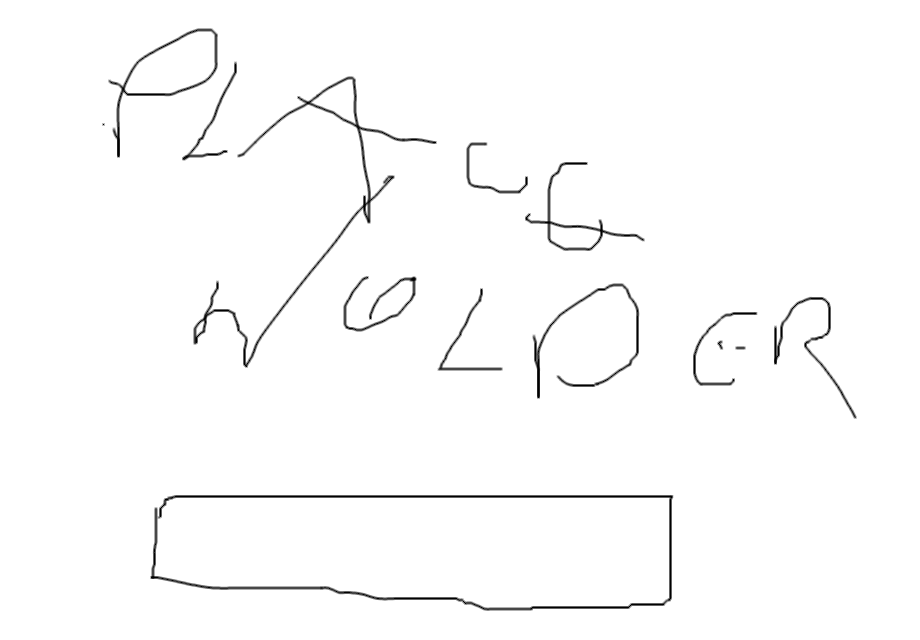
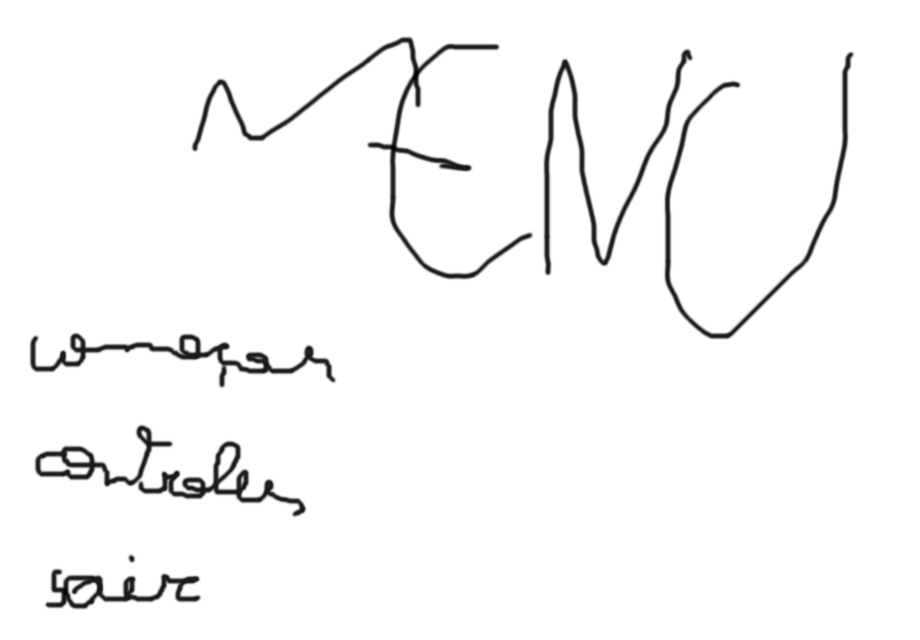
Add files via upload

diff --git a/menu.c b/menu.c
@@ -9,18 +9,22 @@
 
 
 
-int menu(unsigned int X_SCREEN, unsigned int Y_SCREEN){
-  
+int menu(ALLEGRO_DISPLAY* disp, unsigned int X_SCREEN, unsigned int Y_SCREEN){
+
+  printf("to no menu\n");
+
   int state_menu = 0;
   
   ALLEGRO_BITMAP *menu_image = NULL;
   menu_image = al_load_bitmap("menu.png");
+  al_draw_bitmap(menu_image, 0, 0, 0);
+  al_flip_display();
   if(!menu_image){
     fprintf(stderr, "Failed to load menu image!\n");
     return 0;
   }
   
-  ALLEGRO_DISPLAY* disp = NULL;
+
   if(!disp){
     fprintf(stderr, "Failed to create display!\n");
     al_destroy_bitmap(menu_image);
@@ -31,7 +35,7 @@ int menu(unsigned int X_SCREEN, unsigned int Y_SCREEN){
   ALLEGRO_EVENT_QUEUE* queue = al_create_event_queue();
   if(!queue){
     fprintf(stderr, "Failed to create event queue!\n");
-    al_destroy_bitmap(menu_image);
+    al_destroy_bitmap(menu_image); 
     return 0;
   }
   
@@ -42,39 +46,50 @@ int menu(unsigned int X_SCREEN, unsigned int Y_SCREEN){
   
   ALLEGRO_EVENT event;
   
-  while(state_menu != 2){
+  while(1){
     
     al_wait_for_event(queue, &event);
 
     al_draw_bitmap(menu_image, 0, 0, 0);
     
-    al_flip_display();
+
     
-    /*
-    if(event.type == 10 && event.keyboard.keycode == 75){
-      state_menu = 1;
+    
+    if(event.type == 10 && event.keyboard.keycode == 85){
+      state_menu = state_menu + 1;
+    }
+
+    if(event.type == 10 && event.keyboard.keycode == 84){
+      state_menu = state_menu - 1;
     }
   
+    printf("state_menu: %d\n", state_menu);
     
-    if(state_menu == 1){
-      al_draw_text(al_create_builtin_font(), al_map_rgb(255, 0, 0), X_SCREEN / 2, Y_SCREEN - 100, ALLEGRO_ALIGN_CENTRE, "PRESS ENTER TO START");
+    if(state_menu == 0){
+      //al_draw_text(al_create_builtin_font(), al_map_rgb(255, 0, 0), X_SCREEN / 2, Y_SCREEN - 100, ALLEGRO_ALIGN_CENTRE, "PRESS ENTER TO START");
+      al_draw_rectangle(20, 320, 350, 380, al_map_rgb(255, 0, 0),10);
+      al_flip_display();
     }
 
 
-    if(event.type == 10 && event.keyboard.keycode == ALLEGRO_KEY_ENTER){
-      return state_menu;
-    }*/
 
-    if(event.type == 21){ // ALLEGRO_EVENT_KEY_DOWN
-      // 59 é o código para ALLEGRO_KEY_ENTER
-      if (event.keyboard.keycode == 59) state_menu = 1; 
-      // 1 é o código para ALLEGRO_KEY_ESCAPE
-      else if (event.keyboard.keycode == 1) state_menu = 2; 
+
+
+    if(event.type == 10 && (event.keyboard.keycode == ALLEGRO_KEY_ENTER || event.keyboard.keycode == ALLEGRO_KEY_PAD_ENTER)){ //ALLEGRO_EVENT_KEY_DOWN 59 é o código para ALLEGRO_KEY_ENTER 
+        state_menu = 1;
+        printf("APERTEI ENTER\n"); 
+        // 1 é o código para ALLEGRO_KEY_ESCAPE
+        return 1;
+     }else if (event.keyboard.keycode == 59){
+      state_menu = 2; // ALLEGRO_KEY_ESCAPE
+      printf("APERTEI ESCAPE\n");
+     }else if (event.type == 42) { // ALLEGRO_EVENT_DISPLAY_CLOSE
+        break;
     }
-    else if (event.type == 42) { // ALLEGRO_EVENT_DISPLAY_CLOSE
-        state_menu = 2;
-    }
-  }
+    
+    al_flip_display();
+
+  } 
 
   al_destroy_bitmap(menu_image);
   al_destroy_event_queue(queue);

diff --git a/AggressiveSquares.c b/AggressiveSquares.c
@@ -211,10 +211,12 @@ int main(){
 	al_register_event_source(queue, al_get_display_event_source(disp));																																		//Indica que eventos de tela serão inseridos na nossa fila de eventos
 	al_register_event_source(queue, al_get_timer_event_source(timer));																																		//Indica que eventos de relógio serão inseridos na nossa fila de eventos
 
-	if(menu(X_SCREEN, Y_SCREEN)){																																													//Chama a função que exibe o menu inicial do jogo
+
+	printf("antes do menu\n");
+	if(menu(disp, X_SCREEN, Y_SCREEN)){																																													//Chama a função que exibe o menu inicial do jogo
 
 
-
+	printf("passei do menu\n");
 
 	square* player_1 = square_create(20, 1, 10, Y_SCREEN/2, X_SCREEN, Y_SCREEN);																															//Cria o quadrado do primeiro jogador
 	if (!player_1) return 1;																																												//Verificação de erro na criação do quadrado do primeiro jogador
@@ -240,18 +242,15 @@ int main(){
 		fprintf(stderr, "Failed to load background image!\n");
 		return -1;
 	} else {
-    // >>> Adicione estas linhas:
     int w = al_get_bitmap_width(background);
     int h = al_get_bitmap_height(background);
     fprintf(stderr, "Background carregado: Dimensões %dx%d\n", w, h);
-    // <<<
   }
 	
 	while(1){																																																//Laço servidor do jogo
 		al_wait_for_event(queue, &event);																																									//Função que captura eventos da fila, inserindo os mesmos na variável de eventos
 
 		if (p1k || p2k){																																													//Verifica se algum jogador foi morto 																																						//Limpe a tela atual para um fundo preto
-			
 			al_draw_bitmap(background, 0, 0, 0);	
 			if (p2k && p1k) al_draw_text(font, al_map_rgb(255, 255, 255), X_SCREEN/2 - 40, Y_SCREEN/2-15, 0, "EMPATE!");																					//Se ambos foram mortos, declare um empate
 			else if (p2k) al_draw_text(font, al_map_rgb(255, 0, 0), X_SCREEN/2 - 75, Y_SCREEN/2-15, 0, "JOGADOR 1 GANHOU!");																				//Se o segundo jogador morreu, declare o primeiro jogador vencedor
@@ -299,6 +298,7 @@ int main(){
 		}
 	}
 
+	al_destroy_bitmap(background);
 	al_destroy_font(font);																																													//Destrutor da fonte padrão
 	al_destroy_display(disp);																																												//Destrutor da tela
 	al_destroy_timer(timer);																																												//Destrutor do relógio
